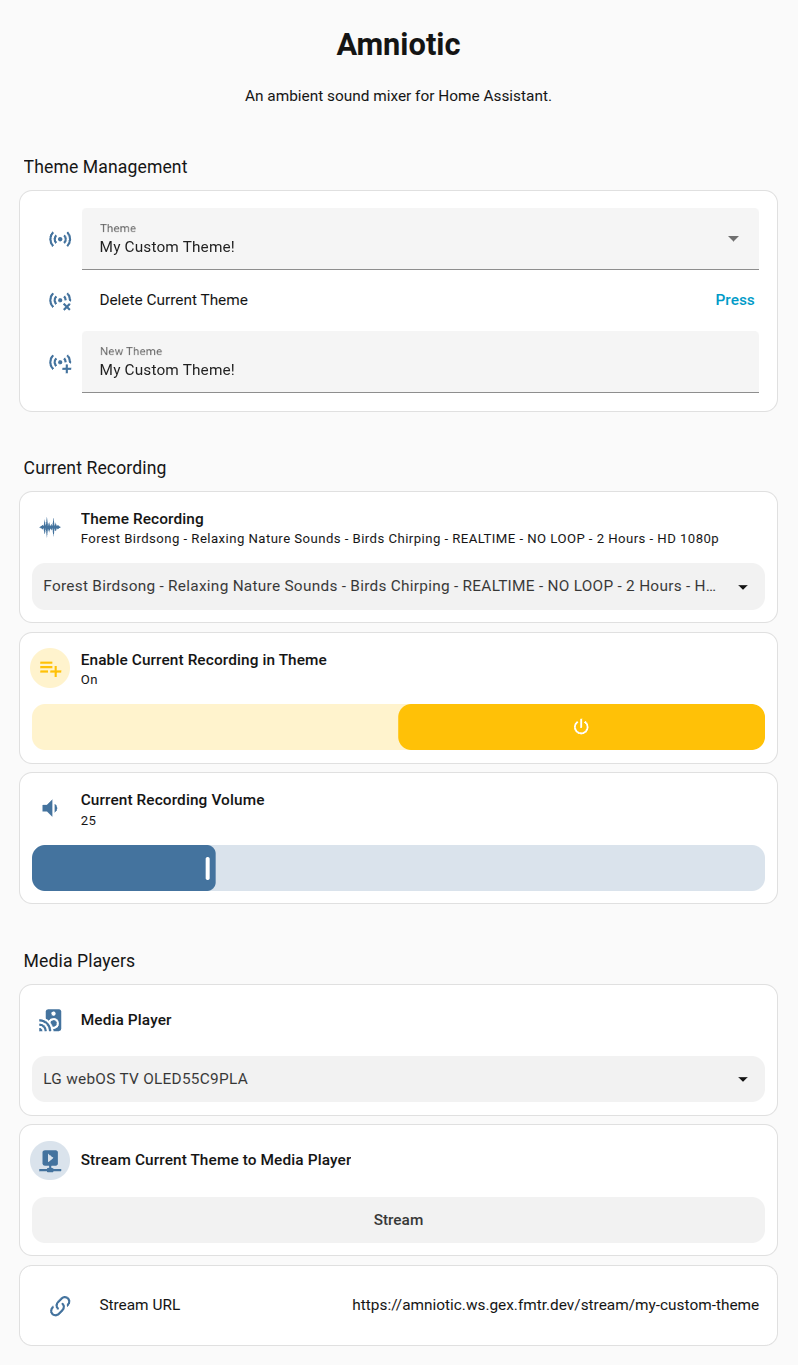
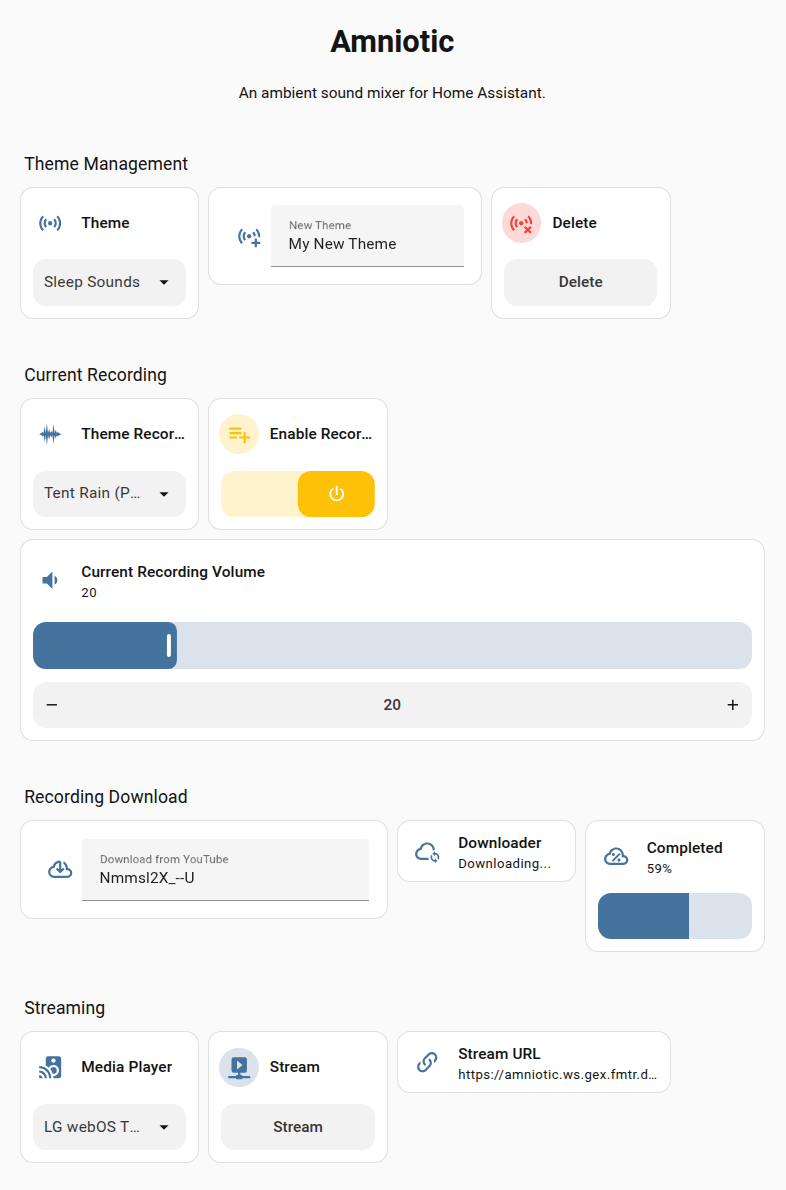
Add dynamic dashboard and related sensors

diff --git a/amniotic/controls.py b/amniotic/controls.py
@@ -7,6 +7,8 @@ from amniotic.obs import logger
 from amniotic.recording import RecordingThemeInstance
 from amniotic.theme import ThemeDefinition
 from fmtr.tools import http, youtube
+from haco import binary_sensor
+from haco.binary_sensor import BinarySensor
 from haco.button import Button
 from haco.control import Control
 from haco.number import Number
@@ -70,6 +72,7 @@ class SelectTheme(Select, ThemeRelativeControl):
 
         await self.device.select_recording.state()
         await self.device.sns_url.state()
+        await self.device.bsn_theme_streamable.state()
         return name
 
 @dataclass(kw_only=True)
@@ -77,9 +80,7 @@ class SelectRecording(Select, ThemeRelativeControl):
     icon: str = 'waveform'
     name: str = 'Recording'
 
-    @logger.instrument('Setting Theme "{self.theme.name}" current recording instance to "{value}"...')
-    async def command(self, value):
-
+    def set_default(self, value):
         instance = self.instances.name.get(value)
         if not instance:
             logger.info(f'Creating new recording instance "{value}" for Theme "{self.theme.name}"...')
@@ -88,6 +89,11 @@ class SelectRecording(Select, ThemeRelativeControl):
             self.instances.append(instance)
 
         self.instances.current = instance
+        return instance
+
+    @logger.instrument('Setting Theme "{self.theme.name}" current recording instance to "{value}"...')
+    async def command(self, value):
+        self.set_default(value)
         return value
 
     async def state(self, value=None):
@@ -98,7 +104,11 @@ class SelectRecording(Select, ThemeRelativeControl):
             await self.announce()
 
         if not self.instance:
-            return None
+            if not self.device.metas.current:
+                return None
+
+            name = self.device.metas.current.name
+            instance = self.set_default(name)
 
         await self.device.swt_play.state()
         await self.device.nbr_volume.state()
@@ -126,6 +136,7 @@ class EnableRecording(Switch, ThemeRelativeControl):
         if not self.instance:
             return None
 
+        await self.device.bsn_theme_streamable.state()
         return self.instance.is_enabled
 
 
@@ -318,7 +329,8 @@ class DownloadLink(Text):
             src = self.downloader.path
             dst = self.device.path_audio / src.name
             shutil.move(src, dst)
-            self.device.refresh_metas()
+            await self.device.refresh_metas_task(loop=False)
+            await self.device.select_recording.state()
 
             await self.status_state(value='Finished')
 
@@ -334,7 +346,7 @@ class DownloadLink(Text):
 
 
 @dataclass(kw_only=True)
-class DownloadStatus(Sensor, ThemeRelativeControl):
+class DownloadStatus(Sensor):
     icon: str = 'cloud-sync-outline'
     name: str = 'Download Status'
 
@@ -343,10 +355,31 @@ class DownloadStatus(Sensor, ThemeRelativeControl):
 
 
 @dataclass(kw_only=True)
-class DownloadPercent(Sensor, ThemeRelativeControl):
+class DownloadPercent(Sensor):
     icon: str = 'cloud-percent-outline'
     name: str = 'Download Percent Complete'
     unit_of_measurement: Uom = Uom.PERCENTAGE
 
     async def state(self, value=None):
         return value or 0
+
+
+@dataclass(kw_only=True)
+class RecordingsPresent(BinarySensor):
+    icon: str = 'waves'
+    name: str = 'Recordings Present'
+
+    async def state(self, value=None):
+        value = bool(self.device.metas)
+        return value
+
+
+@dataclass(kw_only=True)
+class ThemeStreamable(BinarySensor, ThemeRelativeControl):
+    icon: str = 'volume-vibrate'
+    name: str = 'Theme Streamable'
+    device_class = binary_sensor.DeviceClass.SOUND
+
+    async def state(self, value=None):
+        value = self.theme.is_enabled
+        return value

diff --git a/amniotic/device.py b/amniotic/device.py
@@ -5,7 +5,7 @@ from dataclasses import field, fields
 from functools import cached_property
 from typing import Self
 
-from amniotic.controls import SelectTheme, SelectRecording, EnableRecording, NumberVolume, SelectMediaPlayer, PlayStreamButton, StreamURL, NewTheme, DeleteTheme, DownloadLink, DownloadStatus, DownloadPercent
+from amniotic.controls import SelectTheme, SelectRecording, EnableRecording, NumberVolume, SelectMediaPlayer, PlayStreamButton, StreamURL, NewTheme, DeleteTheme, DownloadLink, DownloadStatus, DownloadPercent, RecordingsPresent, ThemeStreamable
 from amniotic.obs import logger
 from amniotic.recording import RecordingMetadata
 from amniotic.theme import ThemeDefinition, IndexThemes
@@ -75,6 +75,8 @@ class Amniotic(Device):
             self.txt_download,
             self.sns_download_status,
             self.sns_download_percent,
+            self.bsn_recordings_present,
+            self.bsn_theme_streamable,
         ]
 
 
@@ -126,6 +128,14 @@ class Amniotic(Device):
     def sns_download_percent(self):
         return DownloadPercent()
 
+    @cached_property
+    def bsn_recordings_present(self):
+        return RecordingsPresent()
+
+    @cached_property
+    def bsn_theme_streamable(self):
+        return ThemeStreamable()
+
     def refresh_metas(self) -> bool:
 
         paths_existing = self.metas.path.keys()
@@ -142,14 +152,18 @@ class Amniotic(Device):
 
         return bool(diff.added)
 
-    async def refresh_metas_task(self):
+    async def refresh_metas_task(self, loop=True):
 
-        while True:
+        while loop:
             await asyncio.sleep(self.path_audio_schedule_duration)
-            is_changed = self.refresh_metas()
-            if is_changed:
-                logger.info(f'Audio file monitoring task found changes. Directory: "{self.path_audio}"...')
-                await self.select_recording.state()
+            await self.refresh_metas_task(loop=False)
+            return
+
+        is_changed = self.refresh_metas()
+        if is_changed:
+            logger.info(f'Audio file monitoring task found changes. Directory: "{self.path_audio}"...')
+            await self.bsn_recordings_present.state()
+            await self.select_recording.state()
 
     async def initialise(self):
         await super().initialise()

diff --git a/amniotic/theme.py b/amniotic/theme.py
@@ -1,11 +1,10 @@
 from __future__ import annotations
 
+import numpy as np
 import time
 import typing
 from dataclasses import dataclass, field
 from functools import cached_property
-
-import numpy as np
 from starlette.requests import Request
 
 from amniotic.obs import logger
@@ -102,7 +101,9 @@ class ThemeDefinition(Base):
         self = cls(amniotic=amniotic, instances=instances, **data)
         return self
 
-
+    @property
+    def is_enabled(self):
+        return any(instance.is_enabled for instance in self.instances)
 
 class ThemeStream:
     """
@@ -128,8 +129,7 @@ class ThemeStream:
 
     @property
     def is_enabled(self):
-        streams = self.get_streams()
-        return any(stream.instance.is_enabled for stream in streams)
+        return self.theme_def.is_enabled
 
     def get_streams(self):
         names_map = self.recording_streams.name

diff --git a/docs/themes.md b/docs/themes.md
@@ -1,7 +1,8 @@
 Amniotic lets you define multiple Themes, each of which you can stream to separate Media Player entities.
 
 !!! note "What's a Theme?"
-Theme here just means a custom, named mix of one or more Recordings, their relative volumes, etc. So a simple Theme might be called "Relaxing Sleep Sounds" and involve two Recordings: one Recording of Birdsong, for example, at 20% volume, mixed with a second Recording, say of white noise, at 12% volume.
+
+    Theme here just means a custom, named mix of one or more Recordings, their relative volumes, etc. So a simple Theme might be called "Relaxing Sleep Sounds" and involve two Recordings: one Recording of Birdsong, for example, at 20% volume, mixed with a second Recording, say of white noise, at 12% volume.
 
 # Creating Themes via Home Assistant Controls
 
@@ -12,7 +13,9 @@ Themes persist, and are saved to disk when modified in any way.
 When running for the first time, you'll have a single theme called **Default
 **. You can add new Themes by entering a name into the **New Theme** control.
 
+!!! note "Themes Need Recordings Enabled"
 
+    When you first create a Theme, it will have no Recordings enabled. In order to be able to stream the Theme, you'll need to enable at least one Recording for it. To enable a Recording, select one from the "Theme Recordings" control, then toggle "Enable Recording".
 
 
 

diff --git a/docs/changelog/1.4.0.md b/docs/changelog/1.4.0.md
@@ -1,0 +1,5 @@
+## Features
+
+- Add [YouTube audio stream downloader](../../recordings). You can now populate Recordings entirely from within the Home Assistant interface.
+- Make [dashboard](../../install/dashboard) dynamic. The dashboard will now automatically show/hide certain sections depending on app state, show links to documentation, etc. So for example the Recording section will be hidden until some Recordings are available, the Stream section will only show if the current Theme is ready to stream, etc.
+- Add YouTube download-related controls to the dashboard.

diff --git a/docs/changelog/1.3.0.md b/docs/changelog/1.3.0.md
@@ -1,0 +1,6 @@
+## Features
+
+- Custom Themes and Theme persistence. You can now create/remove/update your own Themes - and your Themes will be saved between runs.
+- Dynamic adding of Recordings: You can now add recordings to your audio directory on the fly, and Amniotic will notice them and make them available.
+- Updated the example compose file to include the new `AMNIOTIC__PATH_CONFIG` environment variable
+- Updated the example dashboard with the new controls.
